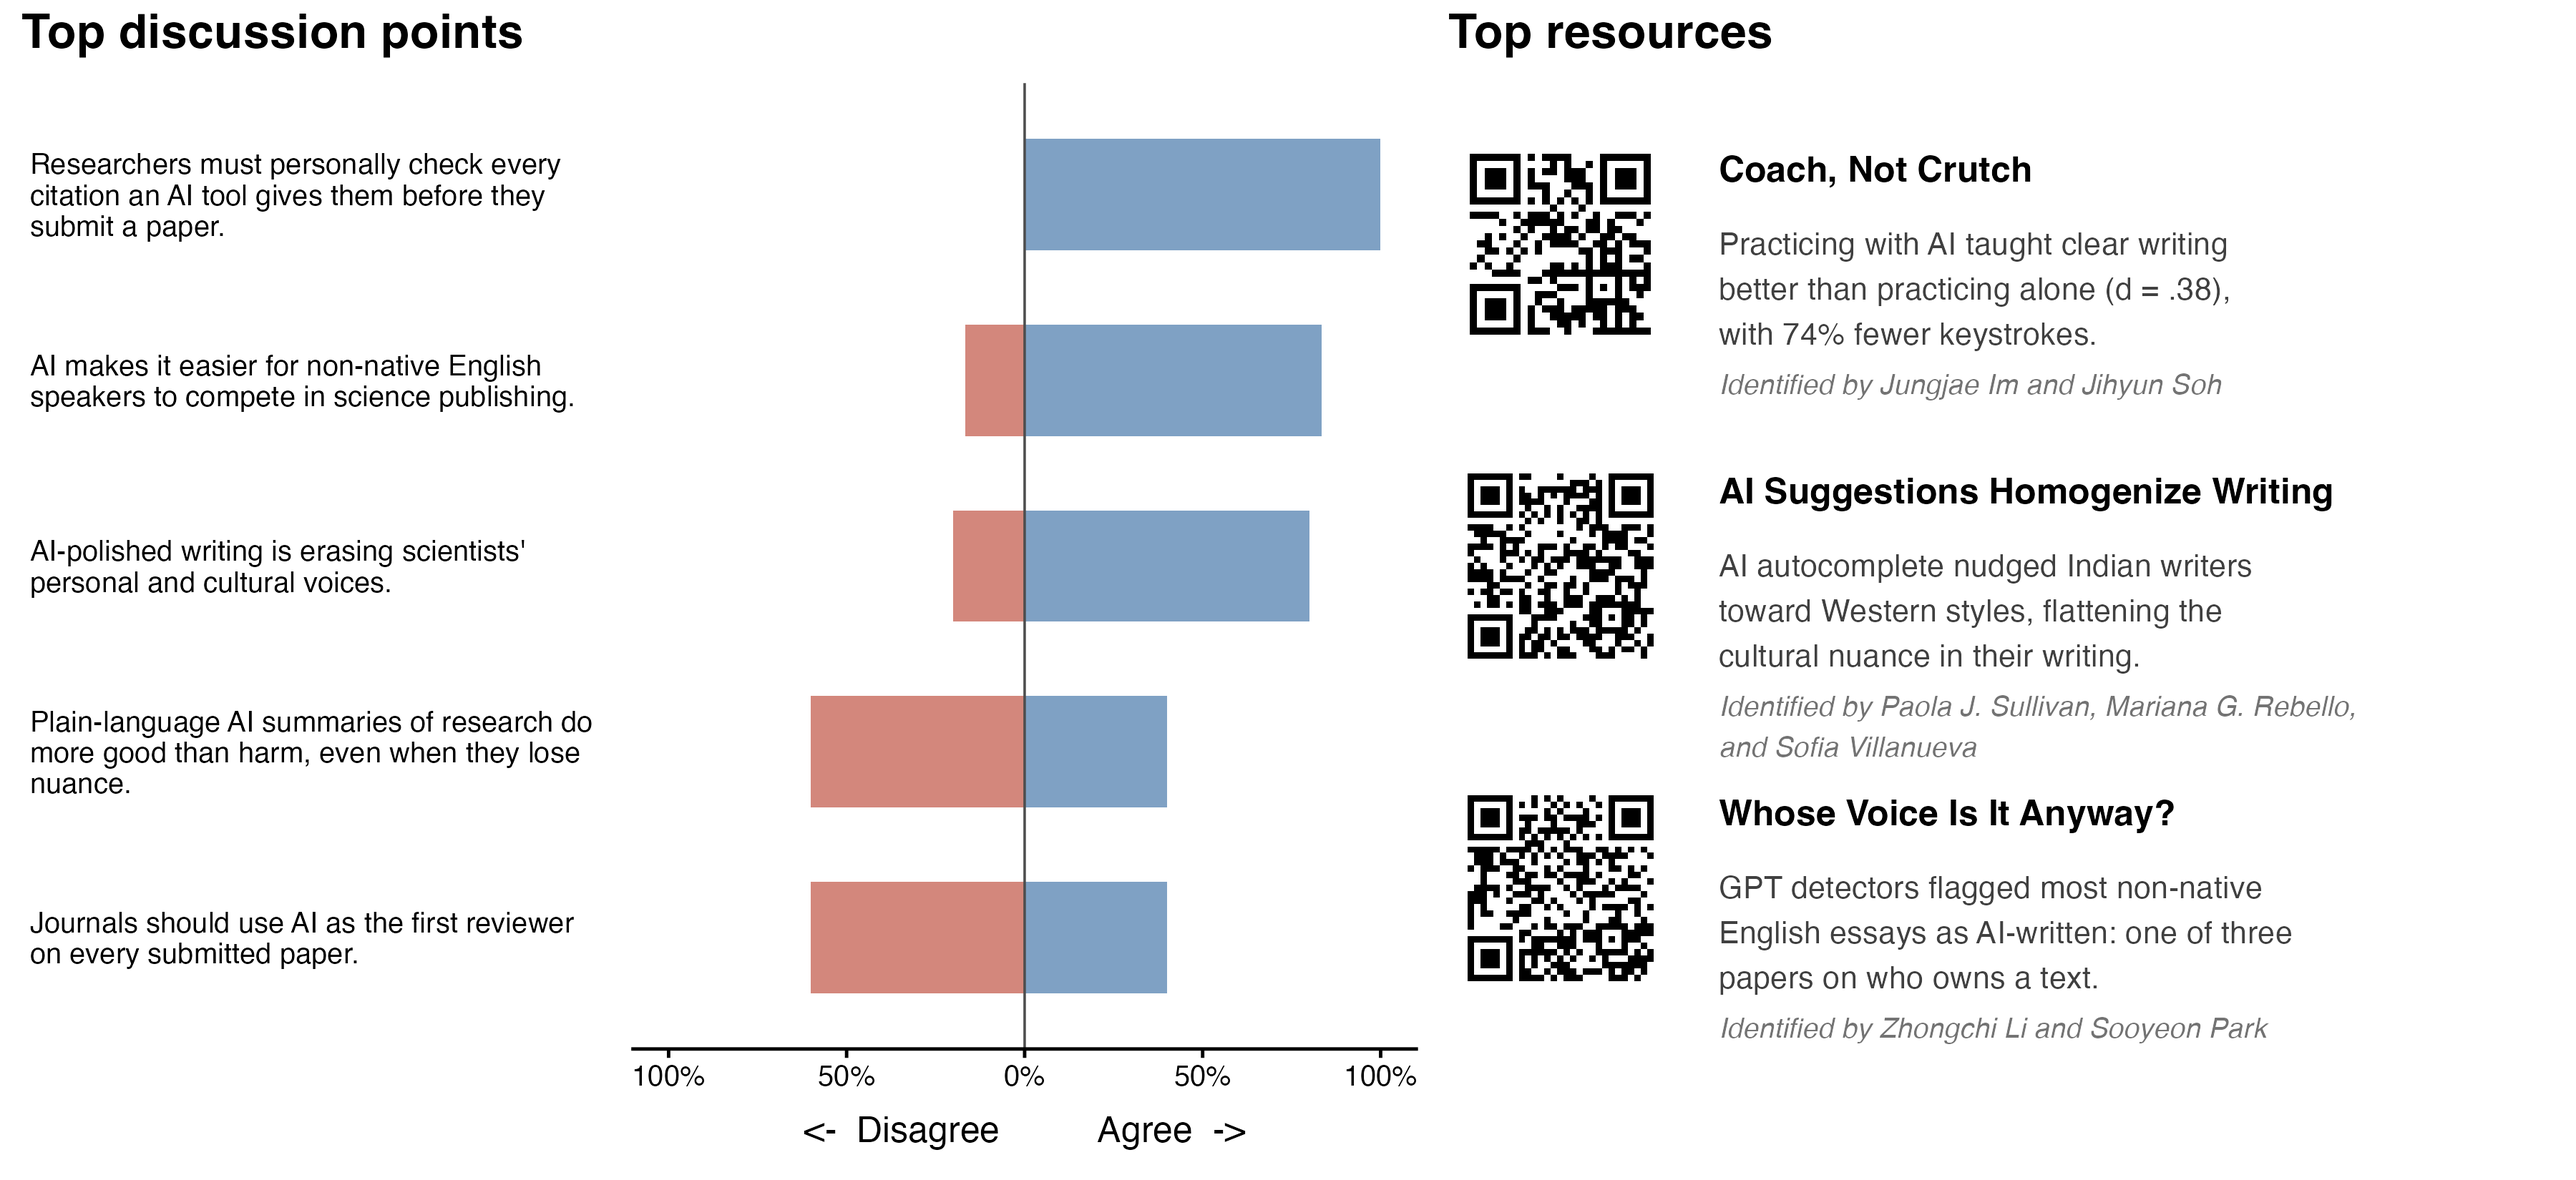
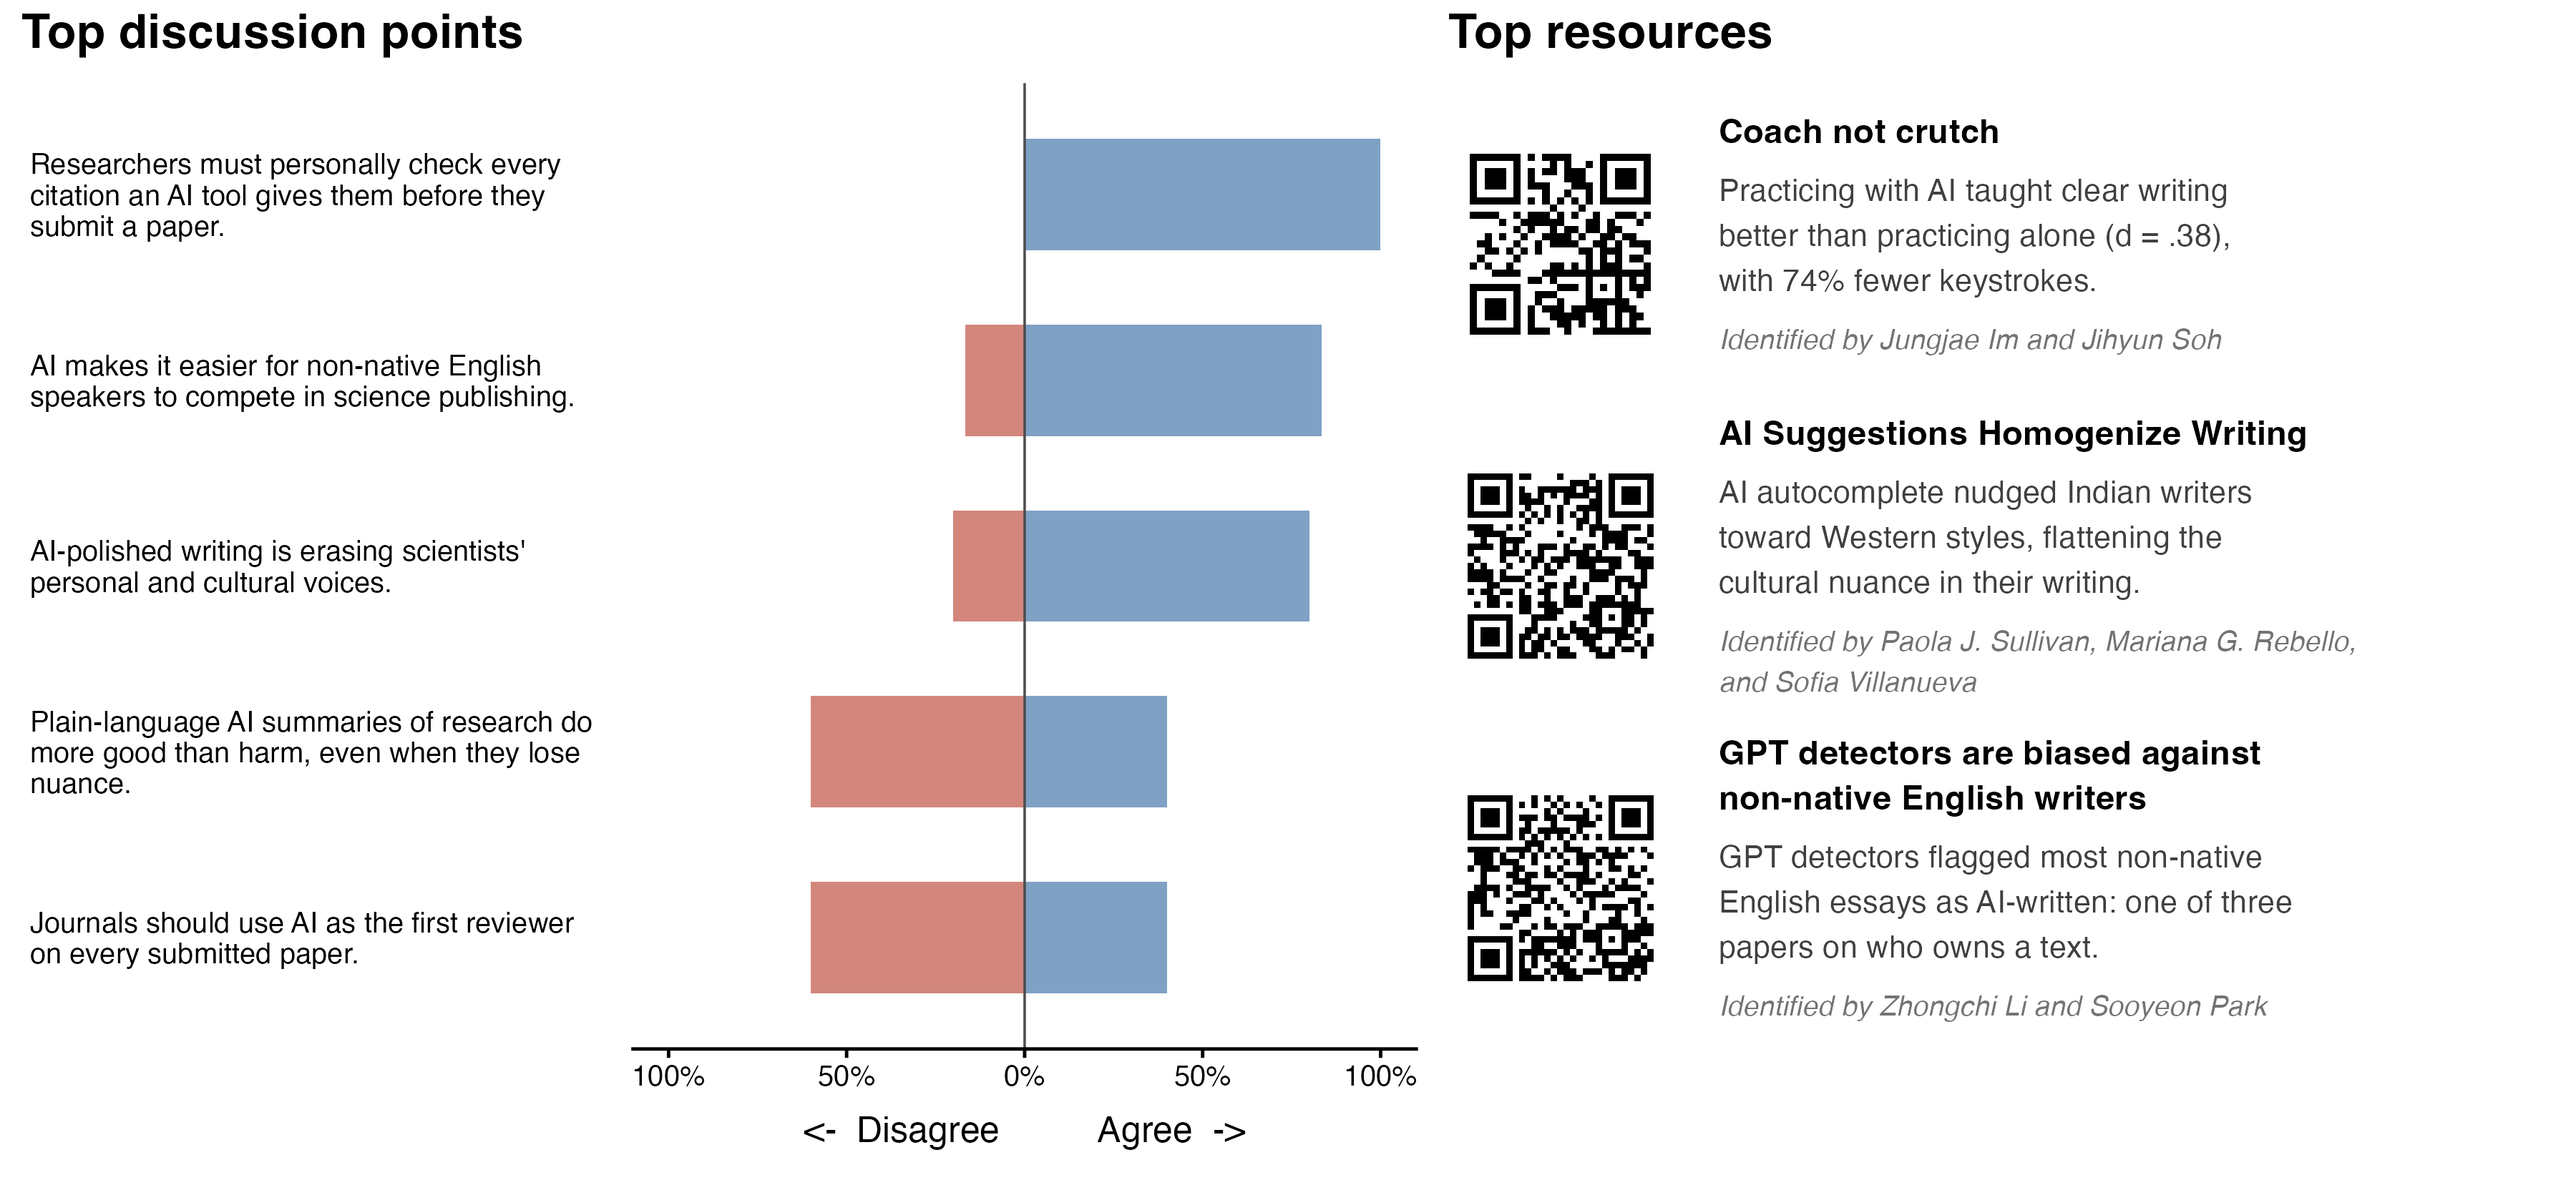
Show real resource titles in the week-summary figures
Titles wrap to as many lines as they need, with body and credit stacked
beneath and centred on the QR code.

Changed region(s): [[0.6533, 0.0927, 0.9022, 0.8964]]

diff --git a/figure-packages/week-summary/README.md b/figure-packages/week-summary/README.md
@@ -71,7 +71,7 @@ below for why passes are not in that denominator.
 
 | column | meaning |
 | --- | --- |
-| `title` | resource title, drawn bold |
+| `title` | the resource's real title (see "Resource titles are real titles"), drawn bold |
 | `url` | encoded into the QR code — must be the real link |
 | `body` | one or two sentences; wraps to the text column automatically |
 | `credit` | the student who identified it, drawn as "Identified by …" |
@@ -120,7 +120,9 @@ week-summary/
 │  ├─ week-10-statements.csv       week 10 discussion points
 │  ├─ week-10-resources.csv        week 10 resources
 │  ├─ week-11-statements.csv       week 11 discussion points
-│  └─ week-11-resources.csv        week 11 resources
+│  ├─ week-11-resources.csv        week 11 resources
+│  ├─ week-12-statements.csv       week 12 discussion points
+│  └─ week-12-resources.csv        week 12 resources
 └─ figures/
    └─ week-NN-summary.png          300 dpi raster, for proofing
 ```
@@ -146,6 +148,7 @@ looks like it matches the week number.
 | 9 | [r7pxadfkedbhnjn8b5bbe](https://pol.is/report/r7pxadfkedbhnjn8b5bbe) | [pol.is/9yf9fdaktc](https://pol.is/9yf9fdaktc) (no report yet) | [gid=805361559](https://docs.google.com/spreadsheets/d/1ANIdsjrg5aG4lP4E491NaluIDMXhNLgp/edit?gid=805361559) |
 | 10 | [r5dc7afbm2yhaesnhkm24](https://pol.is/report/r5dc7afbm2yhaesnhkm24) | [pol.is/3b4n7axwww](https://pol.is/3b4n7axwww) (no report yet) | tab "Wk 9 Writing" |
 | 11 | [pol.is/664ek97mr8](https://pol.is/664ek97mr8) (no report yet) | [pol.is/8mhxriwktf](https://pol.is/8mhxriwktf) (no report yet) | tab "Wk 10 Outreach" |
+| 12 | [r74m3redt5rwrmdcjzukw](https://pol.is/report/r74m3redt5rwrmdcjzukw) | [pol.is/6rdypxykvw](https://pol.is/6rdypxykvw) (no report yet) | [gid=403063907](https://docs.google.com/spreadsheets/d/1ANIdsjrg5aG4lP4E491NaluIDMXhNLgp/edit?gid=403063907) |
 
 Polis exports without a login, which is what makes the numbers checkable:
 
@@ -189,10 +192,20 @@ literal newlines inside the quoted field — wrap at about 46 characters, to no
 more than three lines — rather than paraphrasing the statement shorter. The
 group voted on specific words and the figure should show them.
 
-Resource `title`, by contrast, is drawn on one unwrapped line, so it *does* need
-to be short (about 40 characters). Give the full title in the chapter prose. The
-`body` wraps automatically but only has room for about three lines: keep it near
-100 characters, or the credit line collides with the next resource's title.
+### Resource titles are real titles
+
+Resource `title` is the resource's **real title**, looked up from the DOI,
+arXiv record, or page itself, never the title a student wrote in the resource
+sheet (which can be a nickname, and whose link can turn out to be a different
+paper). Drop a subtitle after a colon. The title wraps at about 41 characters,
+and the body and credit move down beneath it. If the real title would still take
+**more than two lines**, write a short descriptive title in its place, kept
+close to the real title's own wording, and give the full title in the chapter
+prose.
+
+The `body` wraps automatically; keep it near 100 characters (about three
+lines). Each title-body-credit stack is centred on its QR code, and the script
+warns if a stack runs into the one above it.
 
 ## Regenerating
 
